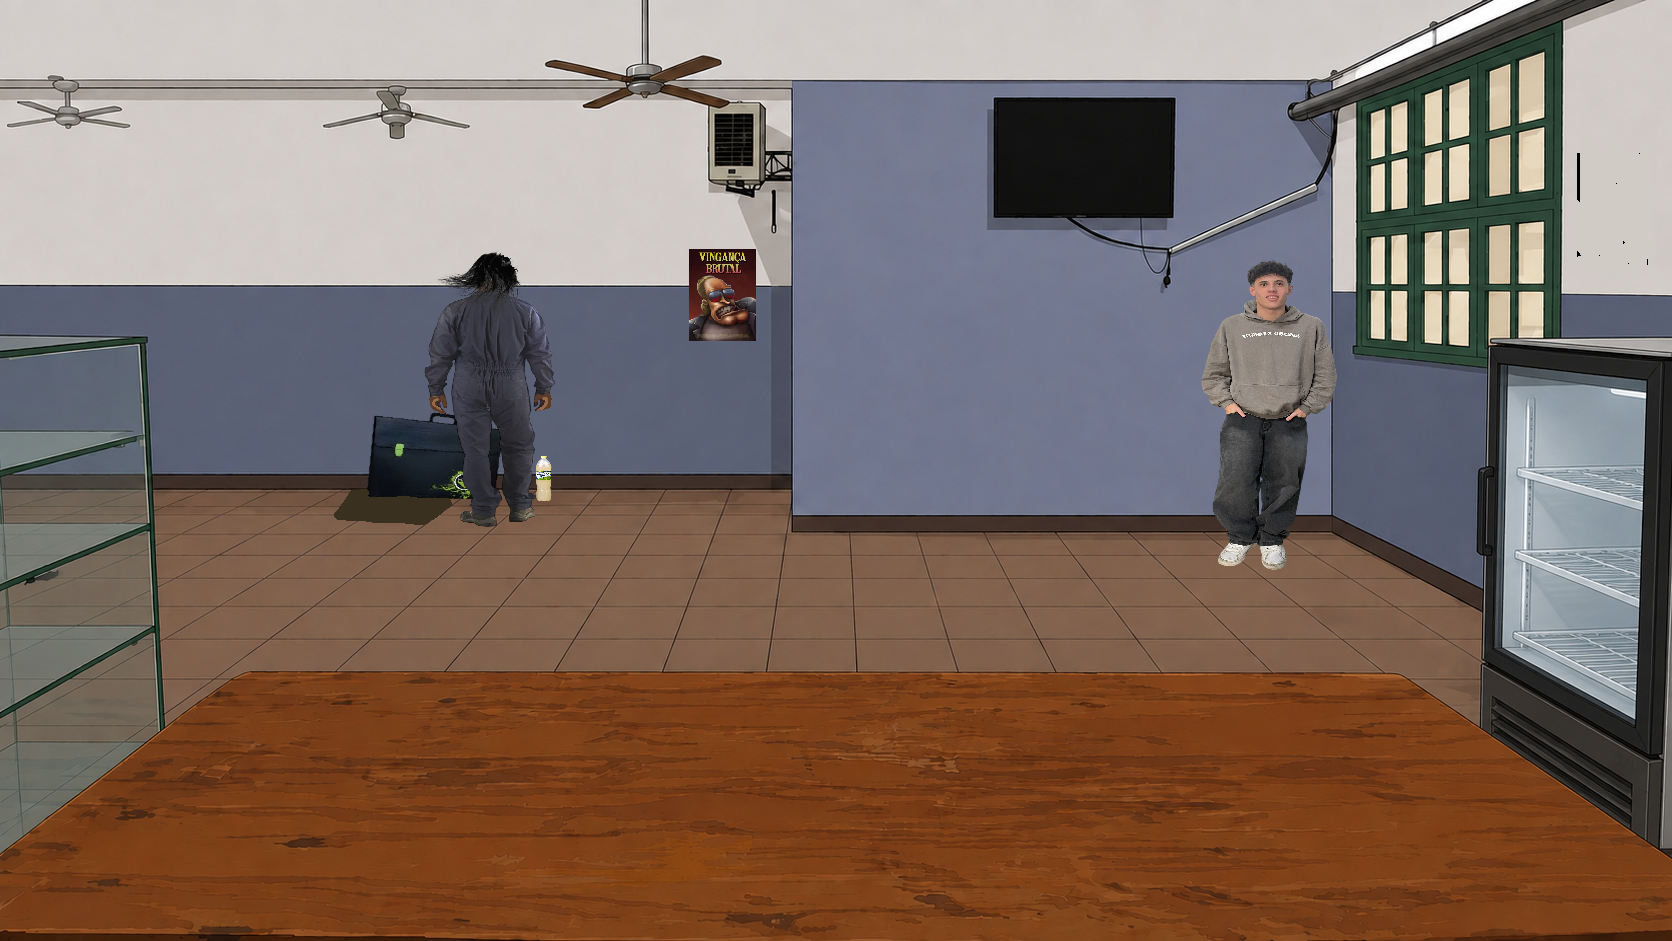
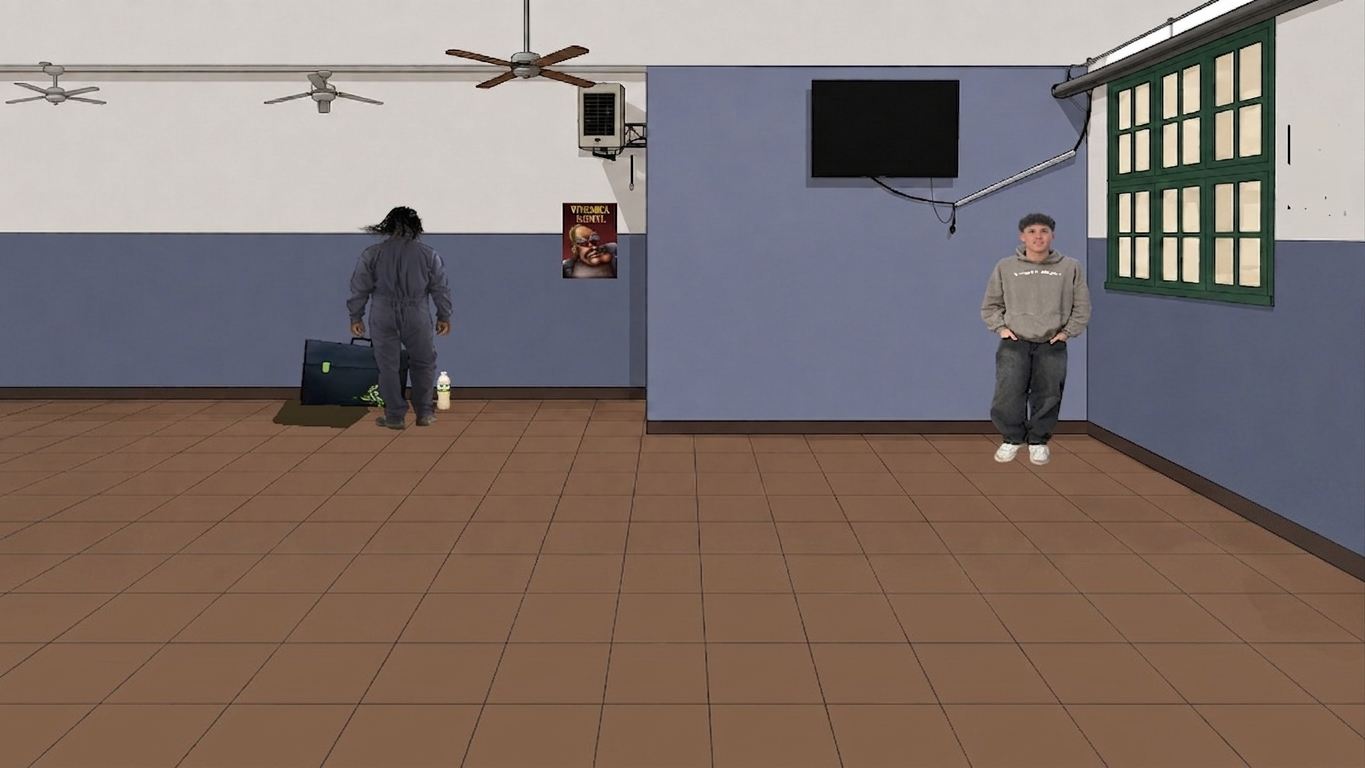
primer dialogo

diff --git a/core/src/main/java/principal/JuegoPantalla.java b/core/src/main/java/principal/JuegoPantalla.java
@@ -7,6 +7,14 @@ import com.badlogic.gdx.graphics.OrthographicCamera;
 import com.badlogic.gdx.graphics.Texture;
 import com.badlogic.gdx.utils.viewport.FitViewport;
 import com.badlogic.gdx.utils.viewport.Viewport;
+import entidades.Cliente;
+import dialogos.NodoDialogo;
+import dialogos.OpcionDialogo;
+import com.badlogic.gdx.graphics.Color;
+import com.badlogic.gdx.graphics.glutils.ShapeRenderer;
+import com.badlogic.gdx.graphics.g2d.BitmapFont;
+import com.badlogic.gdx.math.Vector2;
+import dialogos.OpcionDialogo;
 
 public class JuegoPantalla implements Screen {
 
@@ -16,18 +24,25 @@ public class JuegoPantalla implements Screen {
 
     private Texture fondoCantina;
     private Texture personajeSteven;
+    private Texture mostrador;
+    private Cliente cliente;
+
+    private boolean dialogoActivo = false;
+
+    private ShapeRenderer shapeRenderer;
+    private BitmapFont fuente;
 
     // Movimiento y posición del torso
     private float posX = -350;
-    private float posY = 210;            // Apoya justo sobre la barra del mostrador
+    private float posY = 60;            // Apoya justo sobre la barra del mostrador
     private float destinoX = 200;        // Se frena frente al jugador
     private float velocidad = 250;
     private float tiempoCaminado = 0;
     private boolean llegoAlMostrador = false;
 
     // Dimensiones del sprite recortado
-    private float anchoPersonaje = 320;
-    private float altoPersonaje = 410;
+    private float anchoPersonaje = 480;
+    private float altoPersonaje = 510;
 
     private static final float ANCHO_VIRTUAL = 1280;
     private static final float ALTO_VIRTUAL = 720;
@@ -45,6 +60,15 @@ public class JuegoPantalla implements Screen {
 
         // ASEGURATE de que el nombre del PNG adentro de PERSONAJES sea exacto a este:
         personajeSteven = new Texture(Gdx.files.internal("PERSONAJES/STEVEN SEAGAL.png"));
+
+        mostrador = new Texture(Gdx.files.internal("MENUS/MOSTRADOR.png"));
+
+        cliente = new Cliente("Steven", "PERSONAJES/STEVEN SEAGAL.png");
+
+        shapeRenderer = new ShapeRenderer();
+        fuente = new BitmapFont();
+        fuente.getData().setScale(1.5f);
+
     }
 
     @Override
@@ -54,6 +78,11 @@ public class JuegoPantalla implements Screen {
 
         actualizarMovimiento(delta);
 
+        if (llegoAlMostrador && !dialogoActivo) {
+            dialogoActivo = true;
+        }
+        manejarClickDialogo();
+
         camara.update();
 
         if (juego.batch != null) {
@@ -61,8 +90,17 @@ public class JuegoPantalla implements Screen {
 
             juego.batch.begin();
 
-            // 1. Dibujar el fondo de la cantina
+            // 1. Dibujar el fondo
+            if (llegoAlMostrador) {
+                juego.batch.setColor(0.65f, 0.65f, 0.65f, 1f);
+            } else {
+                juego.batch.setColor(1f, 1f, 1f, 1f);
+            }
+
             juego.batch.draw(fondoCantina, 0, 0, ANCHO_VIRTUAL, ALTO_VIRTUAL);
+
+// Volvemos al color normal para el resto de los elementos
+            juego.batch.setColor(1f, 1f, 1f, 1f);
 
             // 2. Ángulo de inclinación (bamboleo al caminar)
             float anguloInclinacion = 0;
@@ -83,8 +121,14 @@ public class JuegoPantalla implements Screen {
                 personajeSteven.getHeight(),
                 false, false
             );
+            // 4. Dibujar el mostrador por encima de Steven
+            juego.batch.draw(mostrador, 0, 0, ANCHO_VIRTUAL, ALTO_VIRTUAL);
 
             juego.batch.end();
+
+            if (dialogoActivo) {
+                dibujarDialogo();
+            }
         }
     }
 
@@ -97,6 +141,106 @@ public class JuegoPantalla implements Screen {
                 posX = destinoX;
                 llegoAlMostrador = true;
             }
+        }
+    }
+
+    private void dibujarDialogo() {
+
+        NodoDialogo nodo = cliente.getDialogo().getNodoActual();
+
+        // Dibujar la caja del diálogo
+        shapeRenderer.setProjectionMatrix(camara.combined);
+        shapeRenderer.begin(ShapeRenderer.ShapeType.Filled);
+
+        shapeRenderer.setColor(new Color(0, 0, 0, 0.85f));
+
+        shapeRenderer.rect(
+            80,       // X
+            40,       // Y
+            1120,     // ancho
+            250       // alto
+        );
+
+        shapeRenderer.end();
+
+        // Dibujar el texto
+        juego.batch.begin();
+
+        fuente.setColor(Color.WHITE);
+
+        fuente.draw(
+            juego.batch,
+            "Steven:",
+            120,
+            250
+        );
+
+        fuente.draw(
+            juego.batch,
+            nodo.getTextoPersonaje(),
+            120,
+            210
+        );
+
+        // Dibujar las opciones
+        float posicionY = 155;
+
+        for (int i = 0; i < nodo.getOpciones().size(); i++) {
+
+            OpcionDialogo opcion = nodo.getOpciones().get(i);
+
+            fuente.draw(
+                juego.batch,
+                (i + 1) + ". " + opcion.getTextoOpcion(),
+                140,
+                posicionY
+            );
+
+            posicionY -= 55;
+        }
+
+        juego.batch.end();
+    }
+
+    private void manejarClickDialogo() {
+
+        if (!dialogoActivo) {
+            return;
+        }
+
+        if (!Gdx.input.justTouched()) {
+            return;
+        }
+
+        // Convertimos la posición del mouse/pantalla
+        // a las coordenadas virtuales del juego
+        Vector2 posicion = new Vector2(
+            Gdx.input.getX(),
+            Gdx.input.getY()
+        );
+
+        vista.unproject(posicion);
+
+        float x = posicion.x;
+        float y = posicion.y;
+
+        NodoDialogo nodo = cliente.getDialogo().getNodoActual();
+
+        // Posición inicial de las opciones
+        float posicionY = 155;
+
+        for (int i = 0; i < nodo.getOpciones().size(); i++) {
+
+            // Cada opción ocupa aproximadamente 45 píxeles de alto
+            if (x >= 120 && x <= 1150 &&
+                y >= posicionY - 35 && y <= posicionY + 15) {
+
+                cliente.getDialogo().seleccionarOpcion(i);
+
+                return;
+            }
+
+            posicionY -= 55;
         }
     }
 
@@ -119,5 +263,6 @@ public class JuegoPantalla implements Screen {
     public void dispose() {
         if (fondoCantina != null) fondoCantina.dispose();
         if (personajeSteven != null) personajeSteven.dispose();
+        if (mostrador != null) mostrador.dispose();
     }
 }
